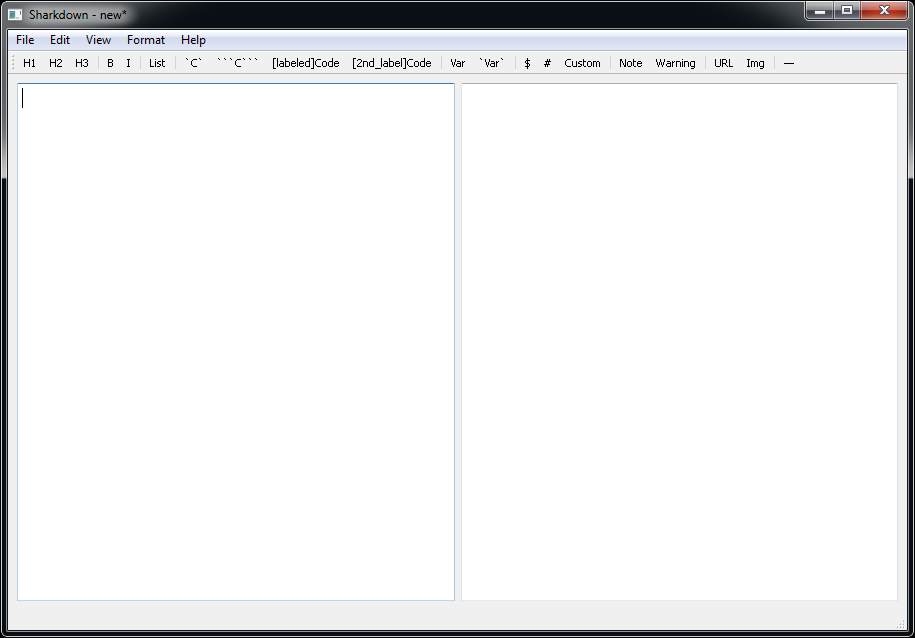
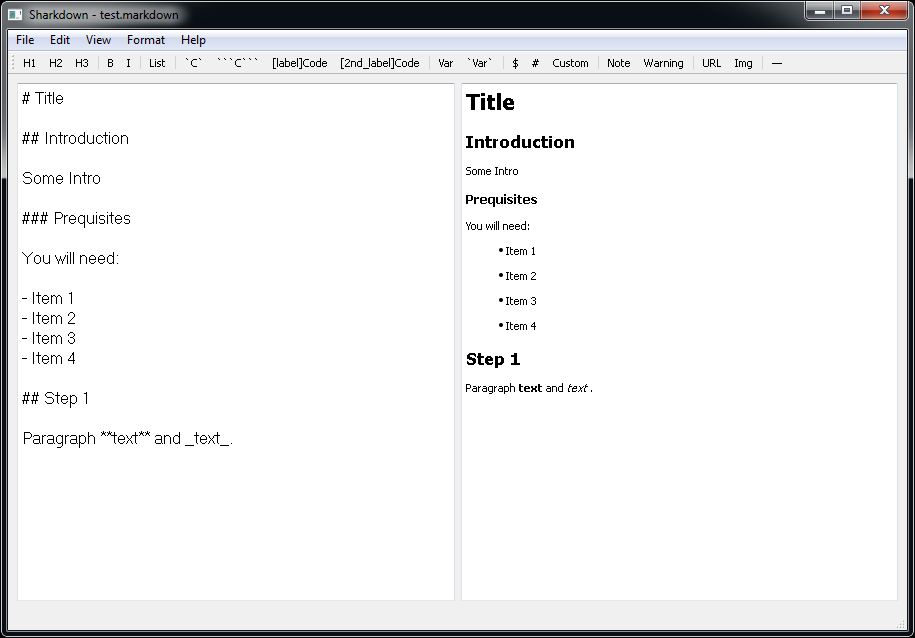
Update

diff --git a/sdparser.py b/sdparser.py
@@ -1,5 +1,152 @@
-class SharkdownParser:
+import re
+from itertools import zip_longest
 
-    def __init__(self):
-        self.__init__()
+# TODO: clean the code up and rename everything
 
+
+def sharkdownparser(text):
+
+    s = text
+
+    # SET 1
+
+    sa = []
+
+    def sentences(s):
+        s = re.split('\\n', s)
+        return s
+
+    def tokenize_1(sentences):
+        tokens = re.split('(#\s|\\n##\s|\\n###\s|\\n####\s|\\n-\s)', sentences)
+        return tokens
+
+    def tokenize_2(arr):
+        tokens = []
+        for item in arr:
+            tokens.append([item[0], re.split('\\n', item[1])])
+        return tokens
+
+    def pack_singles(tokens):
+        tokens = zip(tokens[1::2], tokens[2::2])
+        return tokens
+
+    def convert_singles(tokens):
+        sb = []
+        s = []
+        for code, text in tokens:
+            if code == '# ':
+                sb.append('<h1>')
+                sb.append(text[0])
+                sb.append('</h1>')
+                for item in text[1:]:
+                    sb.append(item)
+            elif code == "\n## ":
+                sb.append('<h2>')
+                sb.append(text[0])
+                sb.append('</h2>')
+                for item in text[1:]:
+                    sb.append(item)
+            elif code == "\n### ":
+                sb.append('<h3>')
+                sb.append(text[0])
+                sb.append('</h3>')
+                for item in text[1:]:
+                    sb.append(item)
+            elif code == "\n#### ":
+                sb.append('<h4>')
+                sb.append(text[0])
+                sb.append('</h4>')
+                for item in text[1:]:
+                    sb.append(item)
+            elif code == "\n- ":
+                sb.append('<ul><li>')
+                sb.append(text[0])
+                sb.append('</li></ul>')
+                for item in text[1:]:
+                    sb.append(item)
+            else:
+                sb.append(code)
+                if text[1] != '':
+                    for item in text[1:]:
+                        sb.append(item)
+            s.append(''.join(sb))
+            sb = []
+        return s
+
+    def replace_newlines(s):
+        return s.replace("\n", "<BR>")
+
+    b = tokenize_1(s)
+    b = pack_singles(b)
+    b = tokenize_2(b)
+    b = convert_singles(b)
+    b = ''.join(b)
+
+    # SET 2
+
+    def tokenize(s):
+        tokens = s
+        tokens = re.split('(\*\*|_)', tokens)
+        return tokens
+
+    def pack_code(tokens):
+        tokens = zip(tokens[1::4], tokens[2::4], tokens[3::4])
+        return tokens
+
+    def pack_text(tokens):
+        tokens = tokens[0::4]
+        return tokens
+
+    def convert_enclosed(tokens):
+        sb = []
+        s = []
+        for a, b, c in tokens:
+            if a == '**' and c == '**':
+                sb.append('<b>')
+                sb.append(b)
+                sb.append('</b>')
+            elif a == '_' and c == '_':
+                sb.append('<i>')
+                sb.append(b)
+                sb.append('</i>')
+            elif a == '```' and c == '```':
+                sb.append('<i>')
+                sb.append(b)
+                sb.append('</i>')
+            else:
+                sb.append(a)
+                sb.append(b)
+                sb.append(c)
+            s.append(''.join(sb))
+            sb = []
+        return s
+
+    def clean_list(arr):
+        arr2 = []
+        for index, item in enumerate(arr):
+            if type(item[1]) == type(None):
+                arr2.append([item[0], ''])
+            else:
+                arr2.append(item)
+        return arr2
+
+    tokens = tokenize(b)
+
+    code = pack_code(tokens)
+
+    text = pack_text(tokens)
+
+    sb = convert_enclosed(code)
+
+    sb = zip_longest(text, sb)
+
+    sb = clean_list(sb)
+
+    result = []
+
+    for item in sb:
+        result.append(' '.join(item))
+
+    result = ' '.join(result)
+
+    return result

diff --git a/sharkdown.py b/sharkdown.py
@@ -5,6 +5,7 @@ from PyQt4.QtGui import *
 from constants import AppConstants
 import GUI.sharkdown_ui as sharkdown_ui
 import ui_config
+from sdparser import sharkdownparser as sdparser
 
 
 class MainWindow(QMainWindow, sharkdown_ui.Ui_Sharkdown):
@@ -38,6 +39,7 @@ class MainWindow(QMainWindow, sharkdown_ui.Ui_Sharkdown):
     # PARSING AND CONVERSION
     def parse_and_convert(self):
         plain = self.Markdown.toPlainText()
+        plain = sdparser(plain)
         # ... parse... convert... return        # preferably: get diff; parse; convert; return; modify with precision
         self.HtmlViewer.setHtml(plain)
         print(plain)  # to see unformatted text (for testing)
@@ -99,9 +101,10 @@ class MainWindow(QMainWindow, sharkdown_ui.Ui_Sharkdown):
             self.fullpath = QFileDialog.getOpenFileName(filedialog, 'Open File', self.filepath,
                                                         "Markdown (*.md, *.markdown); Text (*.txt)")
             with open(self.fullpath, 'r') as f:
-                self.Markdown.insertPlainText(f.read())
-                self.learn_path(self.fullpath)
                 self.Markdown.setText('')
+                self.Markdown.insertPlainText(f.read())
+                print(f.read())
+                self.learn_path(self.fullpath)
                 self.set_window_title()
                 print(self.fullpath)
         except:
@@ -143,6 +146,7 @@ class MainWindow(QMainWindow, sharkdown_ui.Ui_Sharkdown):
     # MENU - EDIT
     def skip_action(self):
         self.set_cursor_forward(AppConstants.data['cursor_skip'][self.cursor_code])
+        self.cursor_code = 'default'
 
     # MENU - VIEW
     def split_view(self):
@@ -255,6 +259,7 @@ class MainWindow(QMainWindow, sharkdown_ui.Ui_Sharkdown):
 
     # MENU - HELP
     def send_to_docs(self):
+        # will handle this later, since there's no use in writing docs at this point
         pass
 
     def about_popup(self):

diff --git a/constants.py b/constants.py
@@ -65,7 +65,7 @@ class AppConstants:
             bullet='List',
             inline_code='`C`',
             code_block='```C```',
-            labeled_code='[labeled]Code',
+            labeled_code='[label]Code',
             secondary_labeled_code='[2nd_label]Code',
             variable='Var',
             inline_code_variable='`Var`',
@@ -152,7 +152,8 @@ class AppConstants:
             nonroot_command=5,
             root_command=5,
             custom_command=5,
-            image=1),
+            image=1,
+            default=1),
         # cursor_back: how many characters to go back after inserting markup code -- to end up in the ready position
         cursor_back=dict(
             bold=2,
